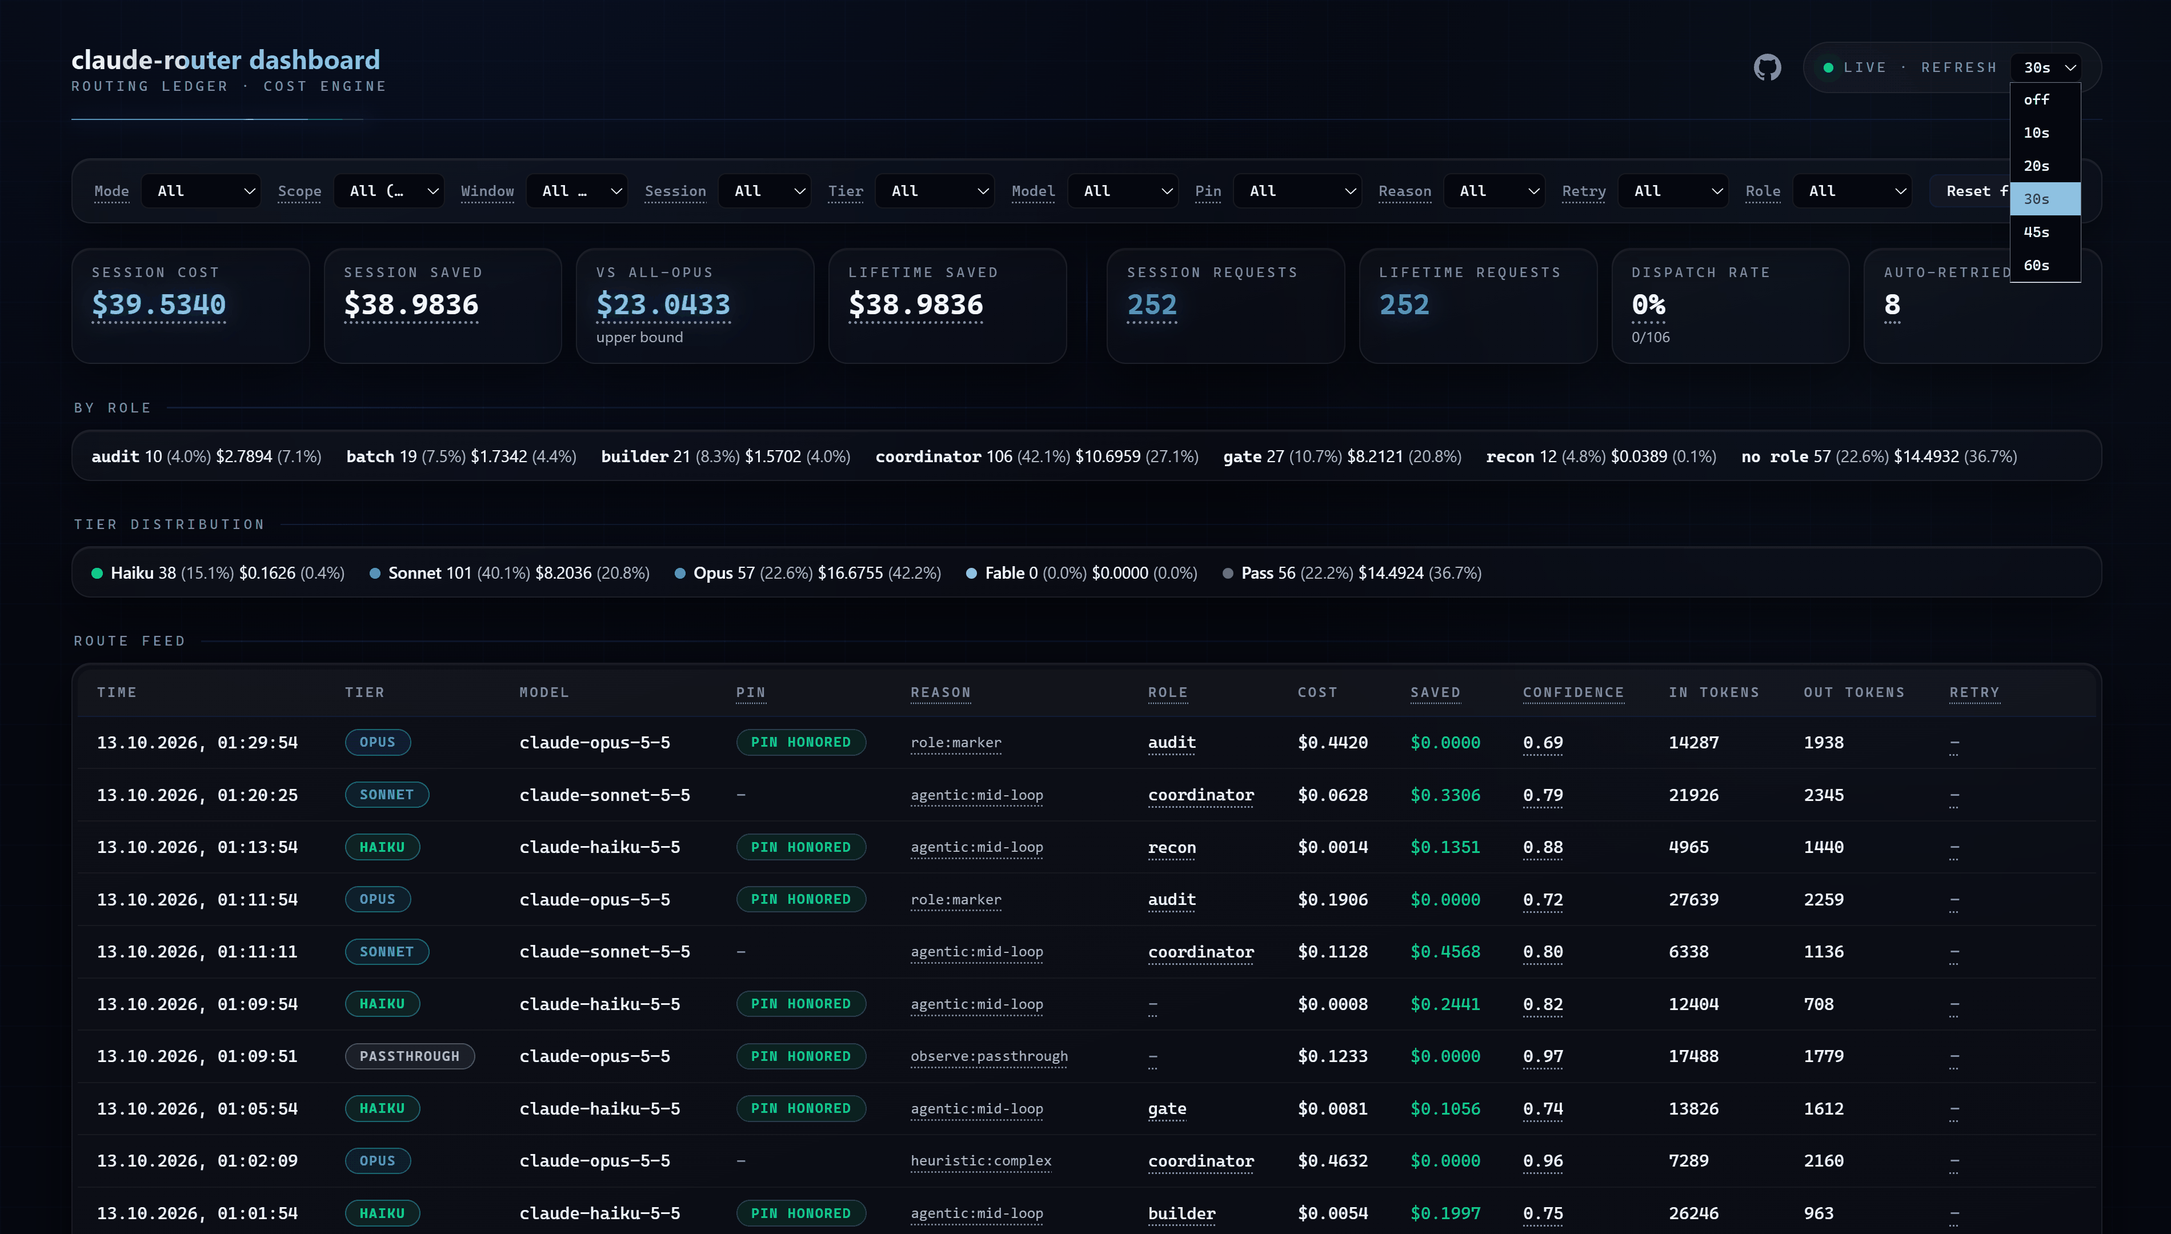
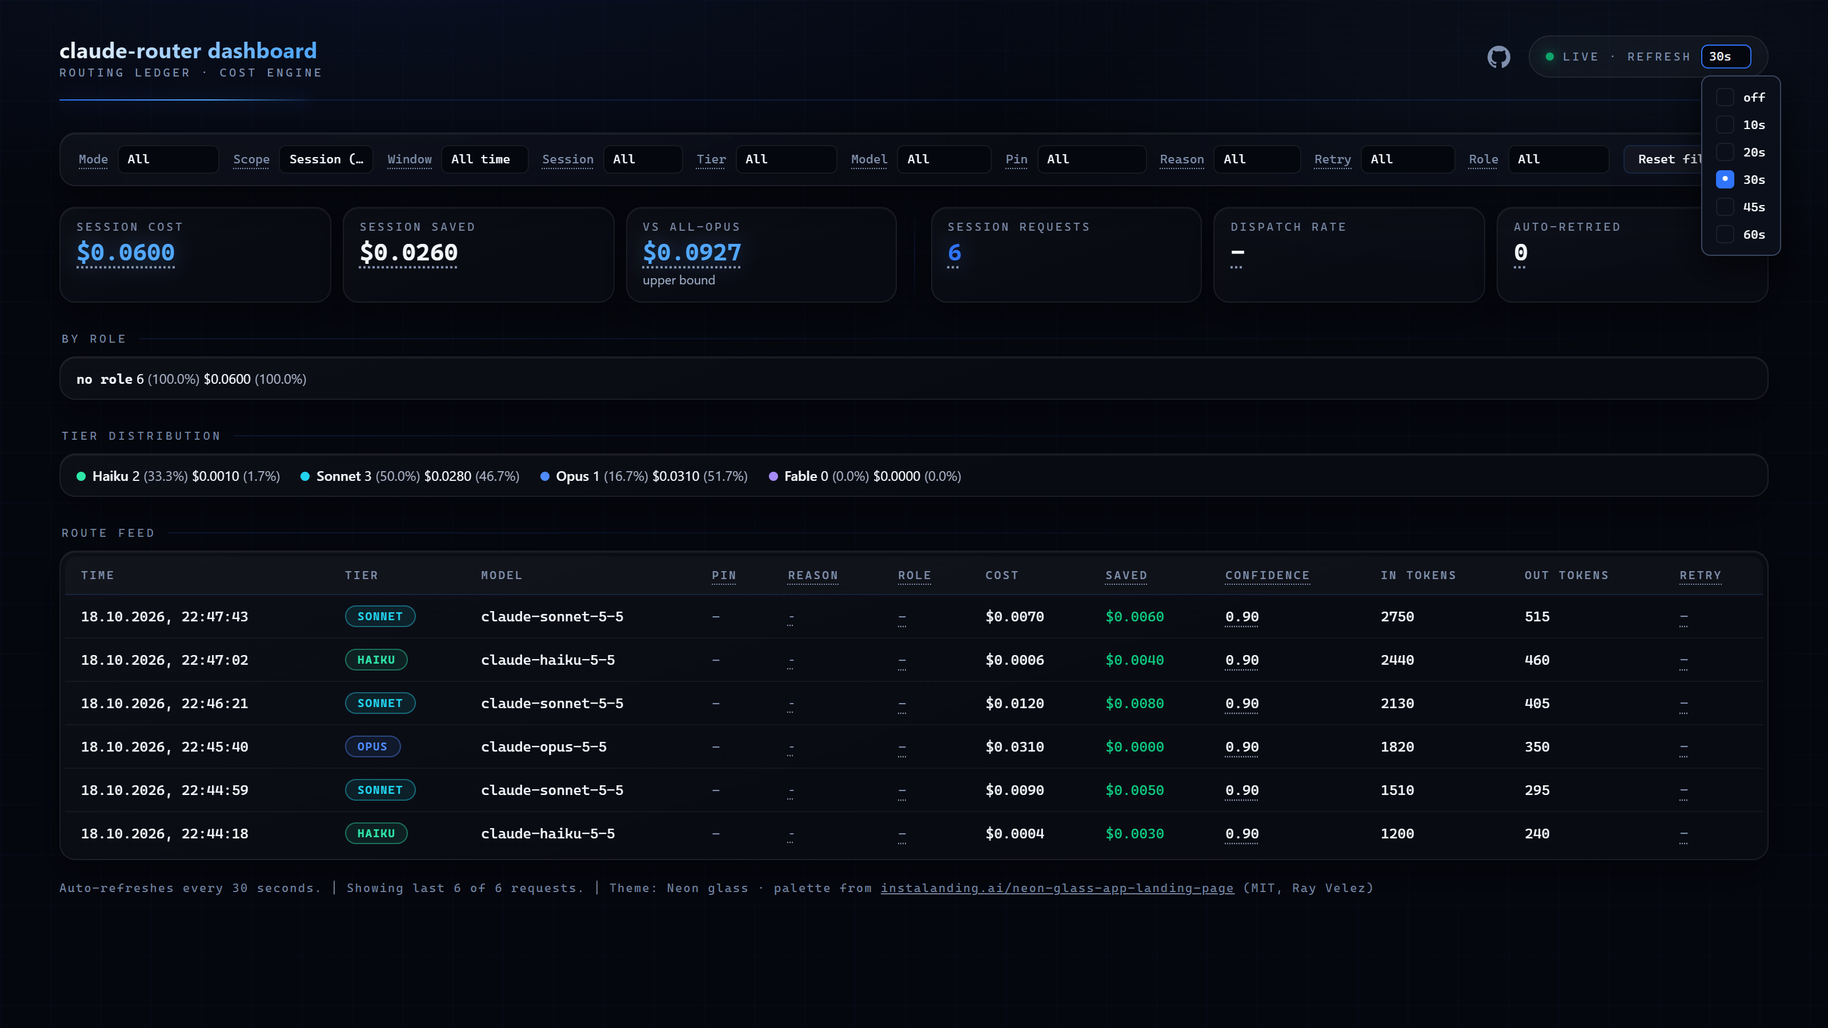
feat(dashboard): single-select dropdowns as tri-state-style popovers

diff --git a/src/proxy/dashboard.ts b/src/proxy/dashboard.ts
@@ -81,8 +81,10 @@ function dirty(d){d.dataset.dirty=1}
 document.addEventListener('click',function(e){var r=e.target.closest&&e.target.closest('.tri-row'),x=e.target.closest&&e.target.closest('.tri-reset');
 if(r){r.dataset.s=N[r.dataset.s];dirty(r.closest('details'))}
 if(x){var d=x.closest('details');d.querySelectorAll('.tri-row').forEach(function(q){q.dataset.s='n'});dirty(d)}
+/* Single-select popover: a row replaces the one value and submits right away. */
+var o=e.target.closest&&e.target.closest('.sel-row');if(o){var p=o.closest('details'),h=p.querySelector('input[type=hidden]');h.value=o.dataset.v;p.open=false;h.form.submit()}
 document.querySelectorAll('details.tri[open]').forEach(function(d){if(!d.contains(e.target))d.open=false})});
-document.addEventListener('keydown',function(e){var r=e.target.closest&&e.target.closest('.tri-row');if(r&&(e.key==='Enter'||e.key===' ')){e.preventDefault();r.click()}if(e.key==='Escape')document.querySelectorAll('details.tri[open]').forEach(function(d){d.open=false})});
+document.addEventListener('keydown',function(e){var r=e.target.closest&&e.target.closest('.tri-row,.sel-row');if(r&&(e.key==='Enter'||e.key===' ')){e.preventDefault();r.click()}if(e.key==='Escape')document.querySelectorAll('details.tri[open]').forEach(function(d){d.open=false})});
 document.addEventListener('toggle',function(e){var d=e.target;if(!d.matches||!d.matches('details.tri')||d.open||!d.dataset.dirty)return;var f=d.closest('form'),n=d.dataset.f;
 f.querySelectorAll('input[data-f="'+n+'"]').forEach(function(i){i.remove()});
 d.querySelectorAll('.tri-row').forEach(function(q){if(q.dataset.s==='n')return;var i=document.createElement('input');i.type='hidden';i.name=n+(q.dataset.s==='exc'?'_ne':'');i.value=q.dataset.v;i.dataset.f=n;f.appendChild(i)});f.submit()},true)})()</script>`;
@@ -504,9 +506,15 @@ export function renderDashboard(history: RouteEvent[], lifetime?: LifetimeStats,
 
   const recent = filtered.slice(-50).reverse();
 
-  const modeOptions = DASHBOARD_MODES.map(
-    (m) => `<option value="${m}"${m === mode ? ' selected' : ''}>${esc(MODE_LABEL[m])}</option>`,
-  ).join('');
+  // Single-select popover in the tri-state look: one hidden input carries the value, the marked row is the current one.
+  const selPop = (name: string, items: [value: string, label: string][], cur: string, attrs = ''): string => {
+    const label = items.find(([v]) => v === cur)?.[1] ?? cur;
+    const rows = items
+      .map(([v, l]) => `<div class="sel-row" role="option" tabindex="0" aria-selected="${v === cur}" data-v="${esc(v)}"${v === cur ? ' data-on' : ''}><span class="box"></span><span class="tl">${esc(l)}</span></div>`)
+      .join('');
+    return `<details class="tri one" data-f="${name}"><summary data-tip="${esc(label)}">${esc(label)}</summary><input type="hidden" name="${name}" value="${esc(cur)}"${attrs}><div class="tri-pop" role="listbox">${rows}</div></details>`;
+  };
+  const modeItems: [string, string][] = DASHBOARD_MODES.map((m) => [m, MODE_LABEL[m]]);
 
   // Option lists come from the full history, not a hardcoded list -
   // a role/model/tier that never ran never appears, and one that did always does.
@@ -555,9 +563,7 @@ export function renderDashboard(history: RouteEvent[], lifetime?: LifetimeStats,
   }
   const sessionItems = triItems(sessionValues.values, sessionValues.hasNone, 'No session id', filters.session, (id) => sessionLabel(id, eventsBySession.get(id) ?? []));
 
-  const windowOptions = TIME_WINDOWS.map(
-    (w) => `<option value="${w}"${w === (filters.window ?? 'all') ? ' selected' : ''}>${esc(WINDOW_LABEL[w])}</option>`,
-  ).join('');
+  const windowItems: [string, string][] = TIME_WINDOWS.map((w) => [w, WINDOW_LABEL[w]]);
 
   const roleItems = triItems(roleValues.values, roleValues.hasNone, 'No role', filters.role);
   const modelItems = triItems(modelValues.values, false, '', filters.model);
@@ -569,15 +575,15 @@ export function renderDashboard(history: RouteEvent[], lifetime?: LifetimeStats,
   const retryValues = distinct(history, retryState);
   const retryItems = triItems(retryValues.values, retryValues.hasNone, 'No retry', filters.retry);
 
-  const scopeOptions = `<option value="session"${filters.scope === 'all' ? '' : ' selected'}>Session (since start)</option><option value="all"${filters.scope === 'all' ? ' selected' : ''}>All (last ${HISTORY_TAIL_LINES} from history)</option>`;
-  const selectField = (id: string, label: string, help: string, options: string): string => `<div class="mode-filter">
-      <label for="${id}" class="has-tip" tabindex="0">${label}<span class="tip-body" role="tooltip">${esc(help)}</span></label>
-      <select id="${id}" name="${id}" onmouseenter="this.title = this.selectedOptions[0].text" onchange="this.form.submit()">${options}</select>
+  const scopeItems: [string, string][] = [['session', 'Session (since start)'], ['all', `All (last ${HISTORY_TAIL_LINES} from history)`]];
+  const selectField = (id: string, label: string, help: string, items: [string, string][], cur: string): string => `<div class="mode-filter">
+      <label class="has-tip" tabindex="0">${label}<span class="tip-body" role="tooltip">${esc(help)}</span></label>
+      ${selPop(id, items, cur)}
     </div>`;
   const filterFields = [
-    selectField('mode', 'Mode', FILTER_HELP.mode, modeOptions),
-    selectField('scope', 'Scope', FILTER_HELP.scope, scopeOptions),
-    selectField('window', 'Window', FILTER_HELP.window, windowOptions),
+    selectField('mode', 'Mode', FILTER_HELP.mode, modeItems, mode),
+    selectField('scope', 'Scope', FILTER_HELP.scope, scopeItems, filters.scope === 'all' ? 'all' : 'session'),
+    selectField('window', 'Window', FILTER_HELP.window, windowItems, filters.window ?? 'all'),
     triField('session', 'Session', FILTER_HELP.session, sessionItems, filters.session),
     triField('tier', 'Tier', FILTER_HELP.tier, tierItems, filters.tier),
     triField('model', 'Model', FILTER_HELP.model, modelItems, filters.model),
@@ -730,7 +736,6 @@ export function renderDashboard(history: RouteEvent[], lifetime?: LifetimeStats,
       background: var(--glass);
       white-space: nowrap;
     }
-    .live select { font-family: var(--mono); font-size: 11px; letter-spacing: normal; text-transform: none; color: var(--ink); background: var(--void); border: 1px solid var(--edge-soft); border-radius: 6px; padding: 3px 6px; cursor: pointer; }
     header > div:first-child { margin-right: auto; }
     header .gh { order: 1; }
     header .live { order: 2; }
@@ -760,45 +765,26 @@ export function renderDashboard(history: RouteEvent[], lifetime?: LifetimeStats,
     .mode-filter { display: flex; align-items: center; gap: 8px; font-family: var(--mono); font-size: 11px; color: var(--ink-dim); }
     th.help { cursor: help; text-decoration: underline dotted; text-underline-offset: 4px; }
     td[title] { cursor: help; }
-    .mode-filter select {
-      flex: 1 1 0;
-      min-width: 0;
-      width: 100%;
-      text-overflow: ellipsis;
-      background: var(--void);
-      color: var(--ink);
-      border: 1px solid var(--edge-soft);
-      border-radius: 6px;
-      padding: 5px 8px;
-      font-family: var(--mono);
-      font-size: 11px;
-    }
-    select { color-scheme: dark; }
-    .live select option,
-    .mode-filter select option {
-      background: var(--void);
-      color: var(--ink);
-    }
     /* Tri-state filter: the summary is sized like a select, so a long selection ellipsizes instead of widening the bar */
-    .mode-filter details.tri { position: relative; flex: 1 1 0; min-width: 0; }
-    .mode-filter details.tri > summary {
+    details.tri { position: relative; flex: 1 1 0; min-width: 0; }
+    details.tri > summary {
       display: block; list-style: none; cursor: pointer; width: 100%;
       overflow: hidden; text-overflow: ellipsis; white-space: nowrap;
       background: var(--void); color: var(--ink); border: 1px solid var(--edge-soft); border-radius: 6px;
       padding: 5px 8px; font-family: var(--mono); font-size: 11px;
     }
-    .mode-filter details.tri > summary::-webkit-details-marker { display: none; }
-    .mode-filter details.tri[open] > summary { border-color: var(--orange); }
+    details.tri > summary::-webkit-details-marker { display: none; }
+    details.tri[open] > summary { border-color: var(--orange); }
     .tri-pop {
       position: absolute; z-index: 30; top: calc(100% + 6px); left: 0; width: 280px; max-height: 340px; overflow-y: auto;
       background: #0b0f19; border: 1px solid #3a4560; border-radius: 8px; padding: 6px;
       box-shadow: 0 10px 30px rgba(0, 0, 0, 0.67);
     }
     .filter-bar .mode-filter:nth-last-child(-n+4) .tri-pop { left: auto; right: 0; }
-    .tri-row { display: flex; align-items: center; gap: 8px; padding: 4px 6px; border-radius: 5px; cursor: pointer; font-family: var(--mono); font-size: 11px; color: var(--ink); }
-    .tri-row:hover, .tri-row:focus-visible { background: rgba(255, 255, 255, 0.06); outline: none; }
-    .tri-row .tl { min-width: 0; overflow: hidden; text-overflow: ellipsis; white-space: nowrap; }
-    .tri-row .box { flex: none; width: 16px; height: 16px; border: 1px solid var(--edge-soft); border-radius: 4px; display: grid; place-items: center; font-size: 11px; line-height: 1; }
+    .tri-row, .sel-row { display: flex; align-items: center; gap: 8px; padding: 4px 6px; border-radius: 5px; cursor: pointer; font-family: var(--mono); font-size: 11px; color: var(--ink); }
+    .tri-row:hover, .tri-row:focus-visible, .sel-row:hover, .sel-row:focus-visible { background: rgba(255, 255, 255, 0.06); outline: none; }
+    .tri-row .tl, .sel-row .tl { min-width: 0; overflow: hidden; text-overflow: ellipsis; white-space: nowrap; }
+    .tri-row .box, .sel-row .box { flex: none; width: 16px; height: 16px; border: 1px solid var(--edge-soft); border-radius: 4px; display: grid; place-items: center; font-size: 11px; line-height: 1; }
     .tri-row[data-s="n"] .box { border-color: var(--green); color: var(--green); }
     .tri-row[data-s="n"] .box::before { content: "\\2713"; }
     .tri-row[data-s="exc"] .box { border-color: var(--red); color: var(--red); }
@@ -806,6 +792,12 @@ export function renderDashboard(history: RouteEvent[], lifetime?: LifetimeStats,
     .tri-row[data-s="exc"] .tl { text-decoration: line-through; color: var(--ink-dim); }
     .tri-row[data-s="inc"] .box { border-color: var(--orange); background: var(--orange); color: #fff; }
     .tri-row[data-s="inc"] .box::before { content: "\\25CF"; font-size: 8px; }
+    .sel-row[data-on] .box { border-color: var(--orange); background: var(--orange); color: #fff; }
+    .sel-row[data-on] .box::before { content: "\\25CF"; font-size: 8px; }
+    details.tri.one > .tri-pop { width: max-content; min-width: 100%; max-width: 280px; }
+    .live details.tri { flex: none; letter-spacing: normal; text-transform: none; }
+    .live details.tri > summary { width: auto; min-width: 44px; padding: 3px 6px; }
+    .live details.tri > .tri-pop { min-width: 70px; }
     .tri-foot { display: flex; justify-content: space-between; align-items: center; gap: 8px; padding: 6px 6px 2px; margin-top: 4px; border-top: 1px solid var(--edge-soft); font-family: var(--mono); font-size: 10px; color: var(--ink-dim); }
     .tri-reset { font-family: var(--mono); font-size: 10px; color: var(--ink); background: transparent; border: 1px solid var(--edge-soft); border-radius: 5px; padding: 2px 8px; cursor: pointer; }
     .tri-reset:hover { border-color: var(--orange); }
@@ -998,7 +990,7 @@ export function renderDashboard(history: RouteEvent[], lifetime?: LifetimeStats,
       <h1><a href="/dashboard" style="color:inherit;text-decoration:none">claude-router dashboard</a></h1>
       <div class="tagline">routing ledger &middot; cost engine</div>
     </div>
-    <div class="live${auto ? '' : ' paused'}"><span class="dot"></span>live &middot; refresh <select name="auto" form="filter-form" aria-label="Refresh interval" onchange="this.form.submit()">${REFRESH_INTERVALS.map((s) => `<option value="${s}"${s === interval ? ' selected' : ''}>${s === 0 ? 'off' : `${s}s`}</option>`).join('')}</select></div>
+    <div class="live${auto ? '' : ' paused'}"><span class="dot"></span>live &middot; refresh ${selPop('auto', REFRESH_INTERVALS.map((s) => [String(s), s === 0 ? 'off' : `${s}s`]), String(interval), ' form="filter-form"')}</div>
     <a class="gh" href="https://github.com/smoochy/Claude-router" aria-label="GitHub repository"><svg viewBox="0 0 16 16" width="20" height="20" fill="currentColor" aria-hidden="true"><path d="M8 0C3.58 0 0 3.58 0 8c0 3.54 2.29 6.53 5.47 7.59.4.07.55-.17.55-.38 0-.19-.01-.82-.01-1.49-2.01.37-2.53-.49-2.69-.94-.09-.23-.48-.94-.82-1.13-.28-.15-.68-.52-.01-.53.63-.01 1.08.58 1.23.82.72 1.21 1.87.87 2.33.66.07-.52.28-.87.51-1.07-1.78-.2-3.64-.89-3.64-3.95 0-.87.31-1.59.82-2.15-.08-.2-.36-1.02.08-2.12 0 0 .67-.21 2.2.82a7.6 7.6 0 0 1 4 0c1.53-1.04 2.2-.82 2.2-.82.44 1.1.16 1.92.08 2.12.51.56.82 1.27.82 2.15 0 3.07-1.87 3.75-3.65 3.95.29.25.54.73.54 1.48 0 1.07-.01 1.93-.01 2.2 0 .21.15.46.55.38A8.01 8.01 0 0 0 16 8c0-4.42-3.58-8-8-8z"/></svg></a>
   </header>
 

diff --git a/src/__tests__/dashboard.test.ts b/src/__tests__/dashboard.test.ts
@@ -71,12 +71,9 @@ describe('renderDashboard — recomputation per mode', () => {
     assert.equal(renderDashboard(history), renderDashboard(history, undefined, { mode: 'all' }));
   });
 
-  it('styles select popups dark, including the refresh dropdown and the selected option', () => {
+  it('styles the refresh dropdown like the filter popovers, outside the uppercase live pill', () => {
     const html = renderDashboard([]);
-    assert.match(html, /select \{ color-scheme: dark; \}/);
-    assert.match(html, /\.live select option,\s*\.mode-filter select option \{\s*background: var\(--void\);\s*color: var\(--ink\);/);
-    assert.doesNotMatch(html, /option:checked/);
-    assert.match(html, /\.live select \{ font-family: var\(--mono\); font-size: 11px; letter-spacing: normal;/);
+    assert.match(html, /\.live details\.tri \{ flex: none; letter-spacing: normal; text-transform: none; \}/);
     assert.match(html, /header \.gh \{ order: 1; \}\s*header \.live \{ order: 2; \}/);
   });
 });
@@ -213,7 +210,7 @@ describe('stat card order', () => {
 describe('filter row and retry help', () => {
   const html = renderDashboard([e({ retried: true, retryReason: 'truncation' })]);
   it('lists the selects in route-feed order, one row', () => {
-    const ids = [...html.matchAll(/<select id="(\w+)"|<details class="tri" data-f="(\w+)"/g)].map((m) => m[1] ?? m[2]);
+    const ids = [...html.matchAll(/<details class="tri(?: one)?" data-f="(\w+)"/g)].map((m) => m[1]).filter((id) => id !== 'auto');
     assert.deepEqual(ids, ['mode', 'scope', 'window', 'session', 'tier', 'model', 'pin', 'reason', 'retry', 'role']);
     assert.match(html, /flex-wrap: nowrap/);
   });
@@ -257,7 +254,8 @@ describe('refresh pill and reset button', () => {
   });
   it('renders the chosen interval as selected and as a deferred-reload script', () => {
     const html = renderDashboard([e()], undefined, { tier: 'haiku', auto: 30 });
-    assert.match(html, /<option value="30" selected>30s<\/option>/);
+    assert.match(html, /<input type="hidden" name="auto" value="30"/);
+    assert.match(html, /data-v="30" data-on/);
     assert.ok(!html.includes('http-equiv="refresh"'));
     const scripts = html.match(/<script>[\s\S]*?<\/script>/g) ?? [];
     assert.equal(scripts.length, 2, 'refresh script plus the shared tooltip script');
@@ -298,7 +296,7 @@ describe('refresh pill and reset button', () => {
   it('off pauses the LED and runs no timer', () => {
     const off = renderDashboard([e()], undefined, { auto: 0 });
     assert.match(off, /<div class="live paused"/);
-    assert.match(off, /<option value="0" selected>off<\/option>/);
+    assert.match(off, /<input type="hidden" name="auto" value="0"/);
     assert.ok(!off.includes('setTimeout'), 'no refresh timer');
   });
   it('resets filters but keeps the interval, and has no auto checkbox', () => {
@@ -545,8 +543,29 @@ describe('tri-state value filters (include / exclude, several values)', () => {
     assert.match(renderDashboard(history, undefined, { tier: { exc: ['fable'] } }), /data-v="fable" data-s="exc"/);
   });
 
-  it('mode, scope and window stay single selects', () => {
-    const html = renderDashboard(history, undefined, {});
-    for (const id of ['mode', 'scope', 'window']) assert.match(html, new RegExp(`<select id="${id}" name="${id}"`));
+  it('mode, scope, window and refresh are single-select popovers styled like the tri-state ones', () => {
+    const html = renderDashboard(history, undefined, { window: 'today', auto: 30 });
+    assert.ok(!html.includes('<select'), 'no native select left');
+    for (const [id, cur] of [['mode', 'all'], ['scope', 'session'], ['window', 'today'], ['auto', '30']]) {
+      assert.match(html, new RegExp(`<details class="tri one" data-f="${id}">`));
+      assert.equal(html.match(new RegExp(`name="${id}"`, 'g'))?.length, 1, `${id} submits one value`);
+      assert.match(html, new RegExp(`<input type="hidden" name="${id}" value="${cur}"`));
+      const block = html.slice(html.indexOf(`data-f="${id}"`), html.indexOf('</details>', html.indexOf(`data-f="${id}"`)));
+      assert.equal(block.match(/class="sel-row"[^>]*data-on/g)?.length, 1, `${id} marks exactly one row`);
+      assert.match(block, new RegExp(`data-v="${cur}" data-on`));
+    }
+    assert.match(html, /\.tri-row, \.sel-row \{/, 'rows share the tri-state row style');
+  });
+  it('picking a single-select row replaces the value, submits once and closes the menu', () => {
+    const src = (renderDashboard(history).match(/<script>\(function\(\)\{var t=[\s\S]*?<\/script>/) ?? [''])[0].slice(8, -9);
+    const handlers: Record<string, (e: unknown) => void> = {};
+    const doc = { createElement: () => ({ style: {}, setAttribute() {} }), body: { appendChild() {} }, addEventListener: (n: string, f: (e: unknown) => void) => (handlers[n] = f), querySelectorAll: () => [] };
+    new Function('document', src)(doc);
+    let submits = 0;
+    const input = { value: 'all', form: { submit: () => submits++ } };
+    const details = { open: true, querySelector: () => input };
+    const row = { dataset: { v: 'today' }, closest: (s: string) => (s === 'details' ? details : null) };
+    handlers.click({ target: { closest: (s: string) => (s === '.sel-row' ? row : null) } });
+    assert.deepEqual([input.value, submits, details.open], ['today', 1, false]);
   });
 });

diff --git a/src/__tests__/proxy.test.ts b/src/__tests__/proxy.test.ts
@@ -239,11 +239,11 @@ describe('createProxyApp', () => {
 
   it('GET /dashboard: legacy auto=0&auto=1 means 10s, auto=0 off, auto=45 keeps 45s, title links home', async () => {
     const on = await (await app.request('/dashboard?auto=0&auto=1')).text();
-    assert.ok(on.includes('<option value="10" selected>'));
+    assert.ok(on.includes('name="auto" value="10"'));
     assert.ok(on.includes('<a href="/dashboard"'));
     const off = await (await app.request('/dashboard?auto=0')).text();
-    assert.ok(off.includes('<option value="0" selected>'));
-    assert.ok((await (await app.request('/dashboard?auto=45')).text()).includes('<option value="45" selected>'));
+    assert.ok(off.includes('name="auto" value="0"'));
+    assert.ok((await (await app.request('/dashboard?auto=45')).text()).includes('name="auto" value="45"'));
   });
 
   it('GET /dashboard?scope=all fills the table from history.jsonl; default scope does not', async () => {

diff --git a/CHANGELOG.md b/CHANGELOG.md
@@ -9,6 +9,8 @@ This fork's own sections use the upstream version plus a `-smoo.<n>` prerelease 
 
 ### Changed
 
+- The single-select dashboard dropdowns (Mode, Scope, Window and the refresh interval) are now popovers in the look of the tri-state filters instead of native selects: same panel, rows, hover and spacing, the current row marked with a filled dot. Picking a row replaces the value, submits the form and closes the menu; Enter and Space work on a focused row. `auto=0` still renders no refresh script. `docs/images/dashboard-auto-refresh.png` is recaptured from the new popover.
+
 - `RELEASING.md`: the Mac install section is confirmed accurate (no `file:` dependency, no shadowing binary), replacing the "unverified" note.
 
 ### Changed
